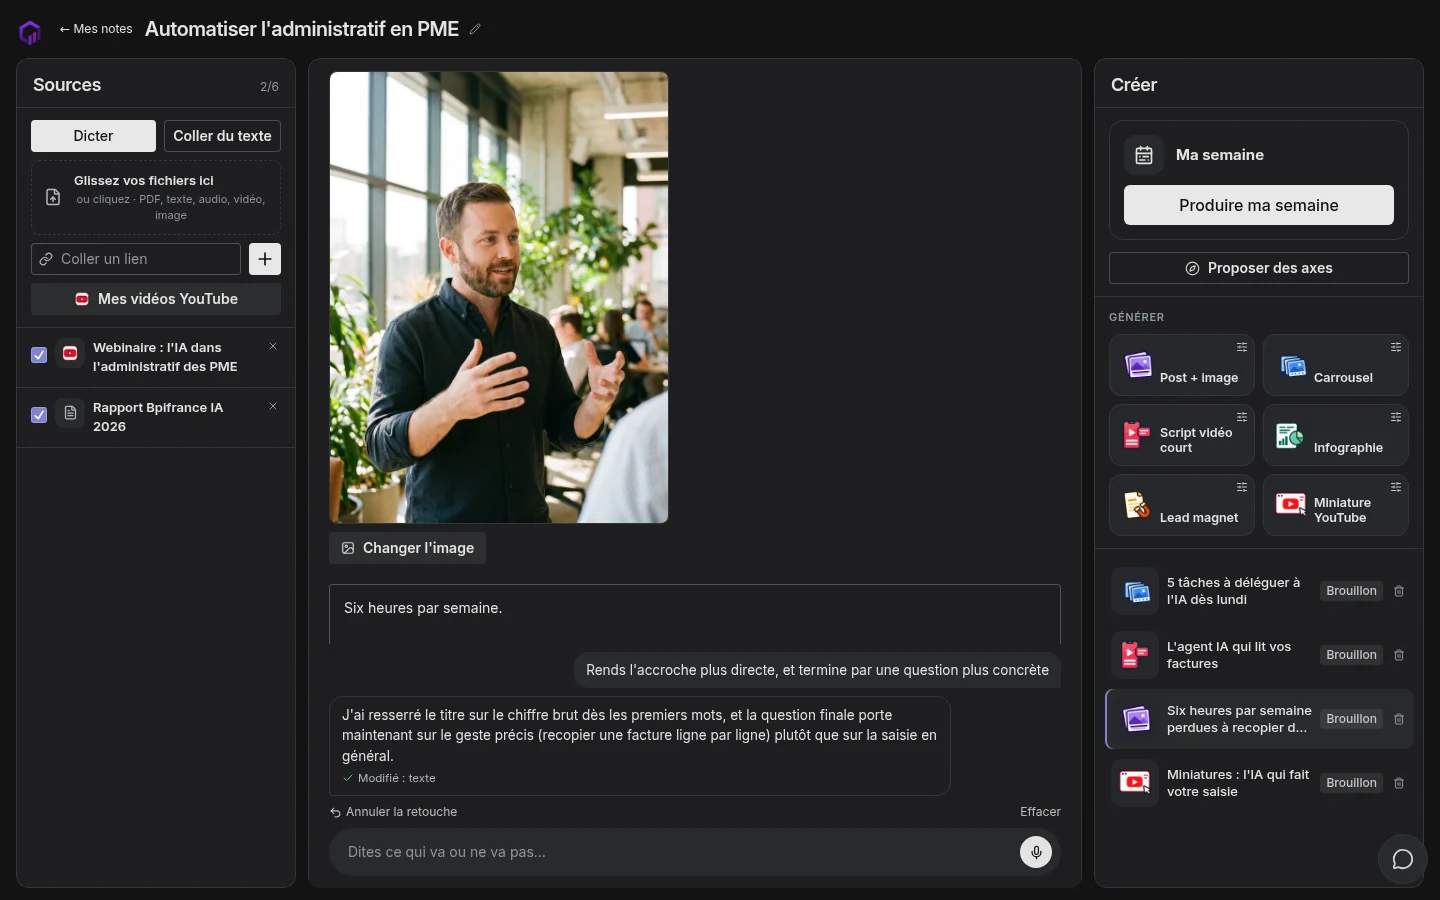
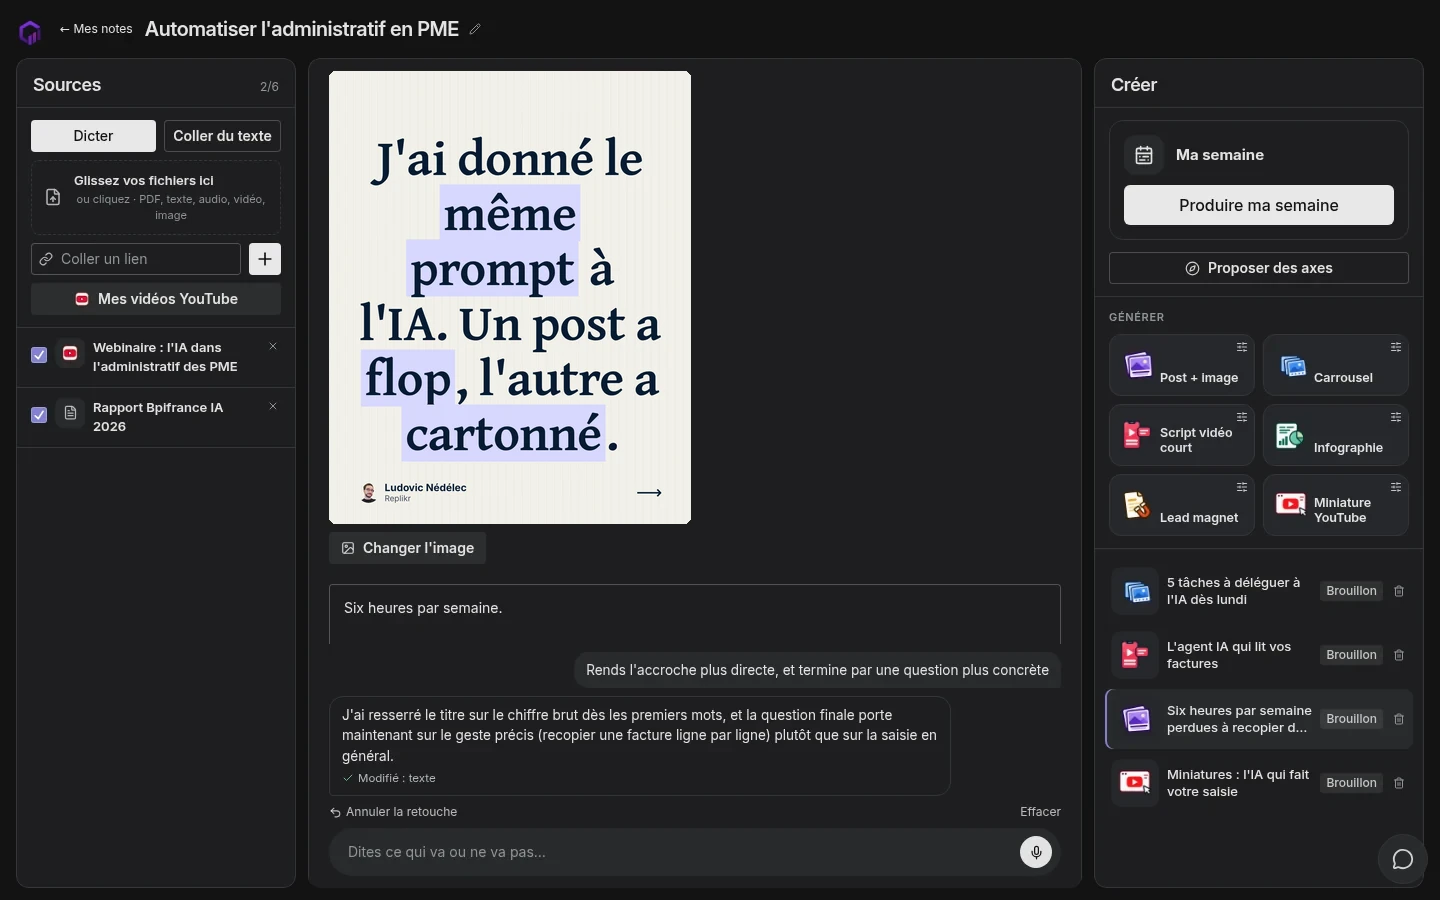
Landing : le héro montre un vrai carrousel Replikr
La photo générique de la capture est remplacée par la 1re slide du
carrousel « même prompt, résultats opposés » (provisoire).

Changed region(s): [[0.2188, 0.0622, 0.5, 0.5911]]

diff --git a/content/replikr.html b/content/replikr.html
@@ -32,7 +32,7 @@
                                     <span class="oi-frame__dot"></span><span class="oi-frame__dot"></span><span class="oi-frame__dot"></span>
                                 </div>
                                 <div class="oi-frame__view oi-frame__view--img">
-                                    <img src="/screens/post_chat.webp" width="1440" height="900" alt="Le notebook Replikr : un post avec sa photo, la demande de retouche et la réponse de Replikr, les formats à produire à droite." decoding="async">
+                                    <img src="/screens/post_chat.webp" width="1440" height="900" alt="Le notebook Replikr : la première slide d’un carrousel, la demande de retouche et la réponse de Replikr, les formats à produire à droite." decoding="async">
                                 </div>
                             </div>
                         </div>
